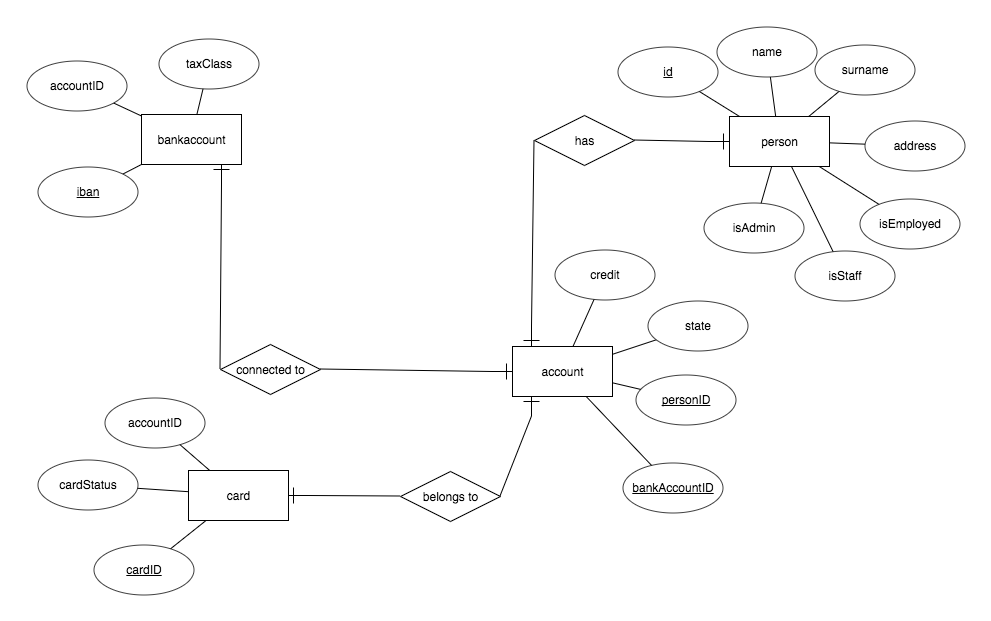
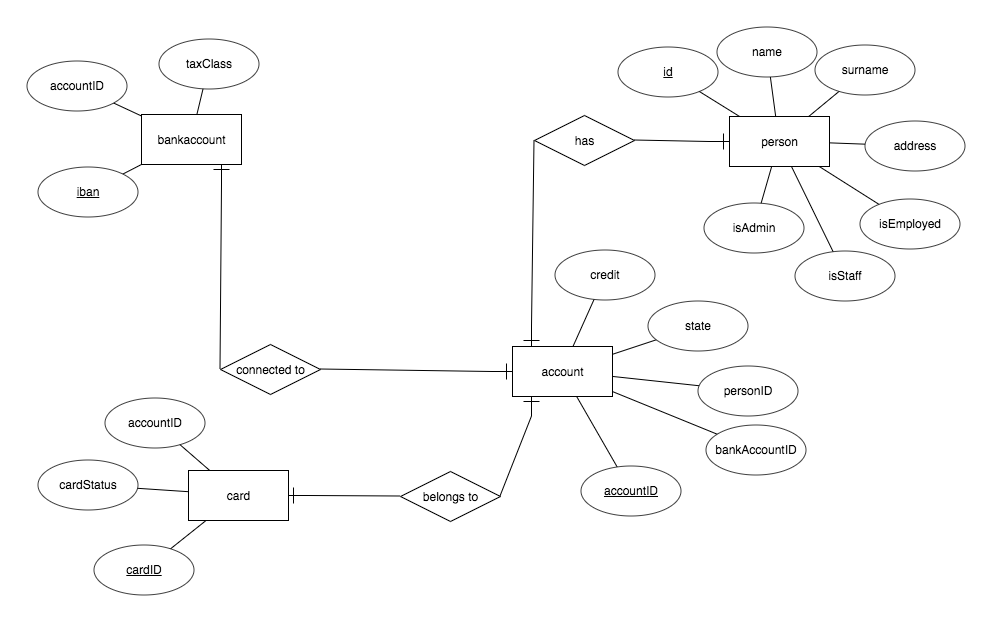
Database class created, ERD created, createTable()

Changed region(s): [[0.6054, 0.5813, 0.8174, 0.8261], [0.5752, 0.6425, 0.6054, 0.6731]]

diff --git a/database.cpp b/database.cpp
@@ -1,21 +1,125 @@
 #include "database.h"
+#include "QString"
 
-Dataset::Dataset()
+bool Database::createPersonTable()
 {
-
+    // Create table "Person"
+    bool ret = false;
+    if (db.isOpen())
+    {
+        QSqlQuery query;
+        ret = query.exec("create table Person "
+                         "(personID VARCHAR(5) NOT NULL, "
+                         "name VARCHAR(30) NOT NULL, "
+                          "surname VARCHAR(50) NOT NULL, "
+                           "address VARCHAR(100), "
+                           "isEmployed INT, "
+                           "isAdmin INT, "
+                           "isStaff INT, "
+                           "primary key (personID))");
+     }
+     return ret;
 }
 
-void Dataset::addBill()
+bool Database::createBankAccountTable()
 {
-/*    if (!canPayBill(account))
+    // Create table "BankAccount"
+    bool ret = false;
+    if (db.isOpen())
     {
-        account->block();
-    }
-
-    if (paymentSucceeded() &&
-        account->getAccountStatus() == BLOCKED_UNPAID)
-    {
-        account->activate();
-    }
-*/
+        QSqlQuery query;
+        ret = query.exec("create table BankAccount "
+                         "(IBAN VARCHAR(22) NOT NULL, "
+                         "accountID VARCHAR(12), "
+                         "taxClass INT, "
+                         "primary key (IBAN), "
+                         "foreign key (accountID) references Account(accountID))");
+     }
+     return ret;
 }
+
+bool Database::createAccountTable()
+{
+    // Create table "Account"
+    bool ret = false;
+    if (db.isOpen())
+    {
+        QSqlQuery query;
+        ret = query.exec("create table Account "
+                         "(accountID VARCHAR(12) NOT NULL, "
+                         "personID  VARCHAR(5), "
+                          "IBAN VARCHAR(22), "
+                          "credit INT, "
+                          "state INT, "
+                          "primary key (accountID), "
+                           "foreign key (personID) references Person(personID), "
+                           "foreign key (IBAN) references BankAccount(IBAN))");
+     }
+     return ret;
+}
+
+
+bool Database::createCardTable()
+{
+    // Create table "Account"
+    bool ret = false;
+    if (db.isOpen())
+    {
+        QSqlQuery query;
+        ret = query.exec("create table Card "
+                         "(cardID VARCHAR(16) NOT NULL, "
+                          "cardStatus INT NOT NULL, "
+                          "accountID VARCHAR(12), "
+                          "primary key (cardID), "
+                          "foreign key (accountID) references Account(accountID))");
+     }
+     return ret;
+}
+
+
+bool Database::openDB()
+{
+    // Find QSLite driver
+    db = QSqlDatabase::addDatabase(DATABASE_HOSTNAME);
+
+    #ifdef Q_OS_LINUX
+   // NOTE: We have to store database file into user home folder in Linux
+   QString path(QDir::home().path());
+   path.append(QDir::separator()).append(DATABASE_NAME);
+   path = QDir::toNativeSeparators(path);
+   db.setDatabaseName(path);
+   #else
+   // NOTE: File exists in the application private folder, in Symbian Qt implementation
+   db.setDatabaseName(DATABASE_NAME);
+   #endif
+
+   // Open databasee
+   return db.open();
+}
+
+QSqlError Database::lastError()
+{
+    // If opening database has failed user can ask
+    // error description by QSqlError::text()
+    return db.lastError();
+}
+
+bool Database::deleteDB()
+{
+    // Close database
+    db.close();
+
+    #ifdef Q_OS_LINUX
+    // NOTE: We have to store database file into user home folder in Linux
+    QString path(QDir::home().path());
+    path.append(QDir::separator()).append("my.db.sqlite"DATABASE_NAME);
+    path = QDir::toNativeSeparators(path);
+    return QFile::remove(path);
+    #else
+    // Remove created database binary file
+    return QFile::remove(DATABASE_NAME);
+    #endif
+}
+
+
+

diff --git a/person.cpp b/person.cpp
@@ -23,7 +23,6 @@ std::string const & Person::getAddress() const
 
 PersonID Person::getID() const
 {
-    qDebug() << "ID is: " << id;
     return personID;
 }
 
@@ -32,8 +31,8 @@ void Person::setName(std::string name)
     if ( name == "" )
         qDebug() << "Name cannot be an empty String!";
     else
-        qDebug() << "Name is set: " << name.c_str();
         this->name = name;
+        qDebug() << "Name is set: " << this->name.c_str();
 }
 
 void Person::setSurname(std::string surname)
@@ -41,14 +40,14 @@ void Person::setSurname(std::string surname)
     if ( surname == "" )
         qDebug() << "Name cannot be an empty String!";
     else
-        qDebug() << "Surname is set: " << surname.c_str();
         this->surname = surname;
+        qDebug() << "Surname is set: " << this->surname.c_str();
 }
 
 void Person::setID(PersonID personID)
 {
-    qDebug() << "Name is set: " << name.c_str();
     this->personID = personID;
+
 }
 
 bool Person::getEmployed()
@@ -60,7 +59,7 @@ bool Person::getEmployed()
 void Person::setEmployed(bool isEmployed)
 {
     this->isEmployed = isEmployed;
-    qDebug() << "Employed flag is set: " << isEmployed;
+    qDebug() << "Employed flag is set: " << this->isEmployed;
 }
 
 bool Person ::getAdmin()
@@ -72,7 +71,7 @@ bool Person ::getAdmin()
 void Person::setAdmin(bool isAdmin)
 {
     this->isAdmin = isAdmin;
-    qDebug() << "Admin flag is set: " << isAdmin;
+    qDebug() << "Admin flag is set: " << this->isAdmin;
 }
 
 bool Person::getStaff()
@@ -84,5 +83,5 @@ bool Person::getStaff()
 void Person::setStaff(bool isStaff)
 {
     this->isStaff = isStaff;
-    qDebug() << "Staff flag is set: " << isStaff;
+    qDebug() << "Staff flag is set: " << this->isStaff;
 }

diff --git a/bankaccount.cpp b/bankaccount.cpp
@@ -7,9 +7,9 @@ BankAccount::BankAccount()
     taxClass = 1; // default tax class
 }
 
-void BankAccount::setAccount(Account *newAccount)
+void BankAccount::setAccount(Account *account)
 {
-    account = newAccount;
+    this->account = account;
 }
 
 Account *BankAccount::getAccount()
@@ -17,23 +17,20 @@ Account *BankAccount::getAccount()
     return account;
 }
 
-void BankAccount::setIBAN(std::string iban)
+void BankAccount::setIBAN(BankAccountID IBAN)
 {
-    IBAN = iban;
-    qDebug() << "New IBAN is set: " << IBAN.c_str();
-
+    this->IBAN = IBAN;
 }
 
-std::string BankAccount::getIBAN()
+BankAccountID BankAccount::getIBAN()
 {
-    qDebug() << "IBAN is: " << IBAN.c_str();
     return IBAN;
 }
 
-void BankAccount::setTaxClass(int tc)
+void BankAccount::setTaxClass(int taxClass)
 {
-    taxClass = tc;
-    qDebug() << "New tax class is set:" << taxClass;
+    this->taxClass = taxClass;
+    qDebug() << "New tax class is set:" << this->taxClass;
 }
 
 int BankAccount::getTaxClass()

diff --git a/database.h b/database.h
@@ -11,17 +11,37 @@
 #include <QSqlError>
 #include <QSqlDatabase>
 
+#define DATABASE_HOSTNAME "CoffeeMachine"
+#define DATABASE_NAME "project_database.db"
 
-class Dataset
+
+
+class Database : public QObject
 {
+    Q_OBJECT
+
     private:
-        long dbID;
-        Account *account;
+        // Database object
+         QSqlDatabase db;
 
     public:
-        Dataset();
-        ~Dataset();
-        void addBill();
+        Database(QObject *parent = 0);
+        ~Database();
+        bool openDB();
+        bool deleteDB();
+        bool restoreDatabase();
+        void closeDatabase();
+        QSqlError lastError();
+
+        // Database create tables
+        bool createPersonTable();
+        bool createBankAccountTable();
+        bool createAccountTable();
+        bool createCardTable();
+
+        // Adding the new rows to the existing tables
+        int insertPerson(QString firstname, QString lastname, int age);
+
 };
 
 #endif

diff --git a/bankaccount.h b/bankaccount.h
@@ -9,8 +9,7 @@ class Account;
 class BankAccount
 {
     private:
-        BankAccountID bankAccountID;
-        std::string IBAN;
+        BankAccountID IBAN;
         int taxClass;
         Account *account; // create account before card and ba instances
     public:
@@ -18,8 +17,8 @@ class BankAccount
         ~BankAccount();
         void setAccount(Account *account);
         Account *getAccount();
-        void setIBAN(std::string iban);
-        std::string getIBAN();
+        void setIBAN(BankAccountID iban);
+        BankAccountID getIBAN();
         void setTaxClass(int tc);
         int getTaxClass();
 };

diff --git a/account.cpp b/account.cpp
@@ -48,8 +48,8 @@ Person *Account::getOwner()
 
 void Account::setOwner(Person *owner)
 {
-    qDebug() << "Account owner is: " << owner;
     this->owner = owner;
+    qDebug() << "Account owner is: " << this->owner;
 }
 
 BankAccount *Account::getBankAccount()
@@ -61,6 +61,7 @@ BankAccount *Account::getBankAccount()
 void Account::setBankAccount(BankAccount *ba)
 {
     this->ba = ba;
+    qDebug() << "Associated bank account is: " << this->ba;
 }
 
 void Account::setAccountCredit(double amount)

diff --git a/bankaccountid.cpp b/bankaccountid.cpp
@@ -1,9 +1,9 @@
 #include "bankaccountid.h"
 #include "tools.h"
-#define BA_ID_LEN 8
+#define IBAN_LEN 20 // will create 22 symbols
 
 
 BankAccountID::BankAccountID()
 {
-    bankAccountID = createRandomID(BA_ID_LEN);
+    IBAN = std::string("DE") + createRandomID(IBAN_LEN);
 }

diff --git a/bankaccountid.h b/bankaccountid.h
@@ -5,7 +5,7 @@
 class BankAccountID
 {
     private:
-        std::string bankAccountID;
+        std::string IBAN;
 
     public:
         BankAccountID();

diff --git a/person.h b/person.h
@@ -10,7 +10,6 @@ class Person
       PersonID personID;
       std::string name;
       std::string surname;
-      long id;
       std::string address;
 
 

diff --git a/accountid.cpp b/accountid.cpp
@@ -1,6 +1,6 @@
 #include "accountid.h"
 #include "tools.h"
-#define ACCOUNT_ID_LEN 10
+#define ACCOUNT_ID_LEN 12
 
 AccountID::AccountID()
 {
